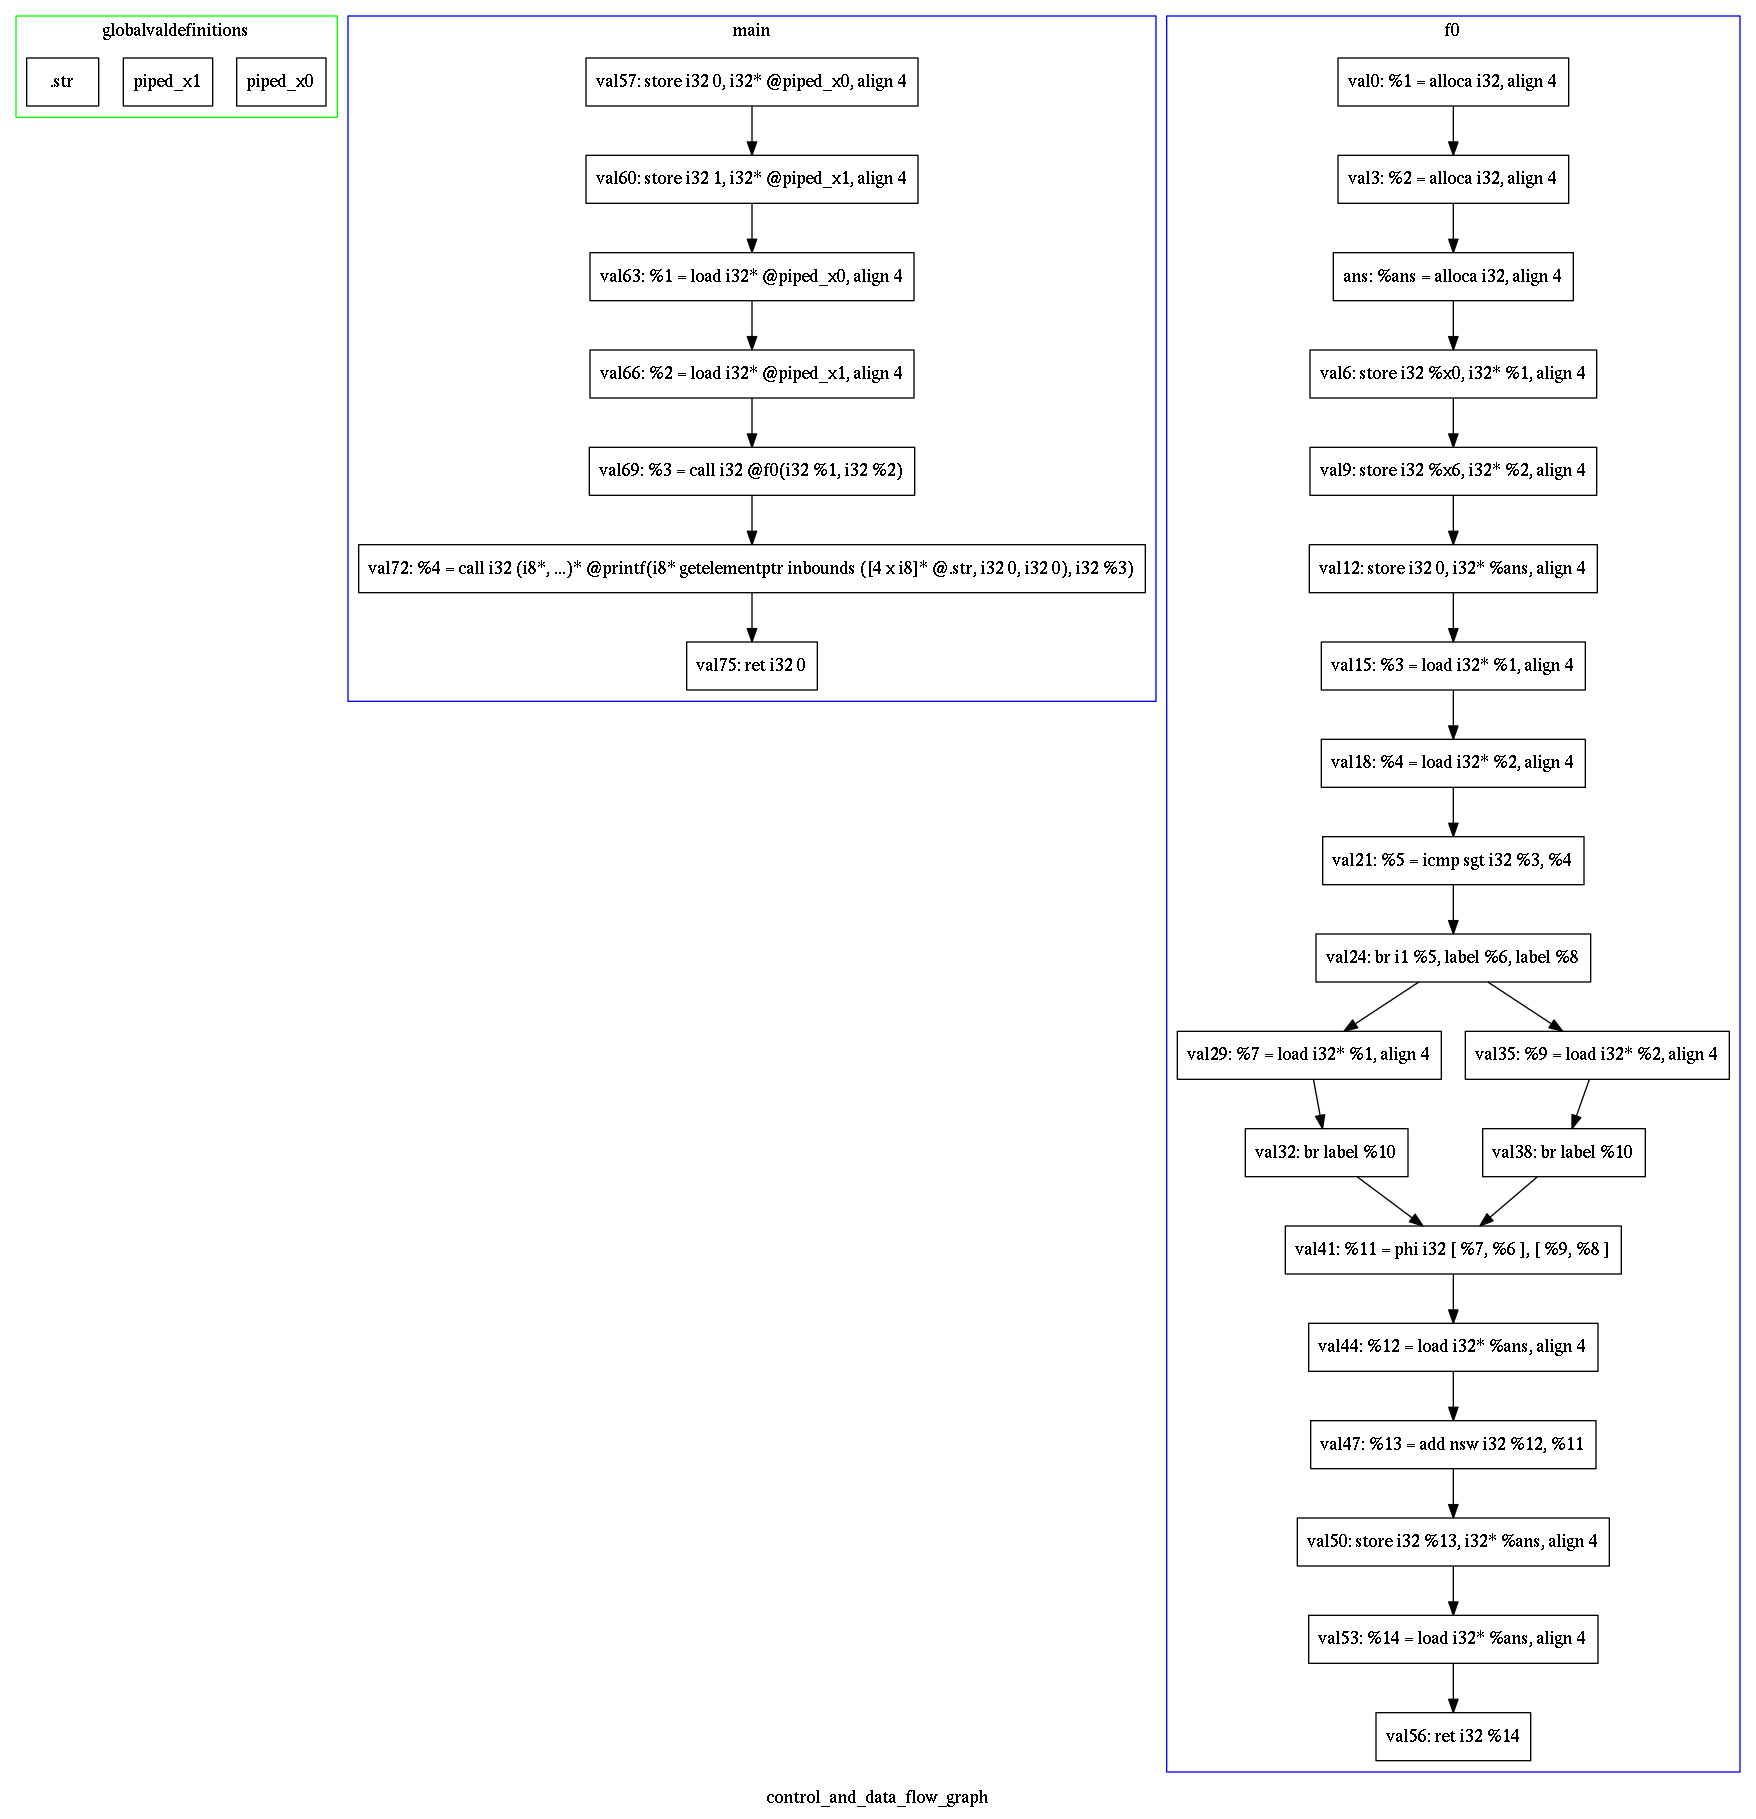
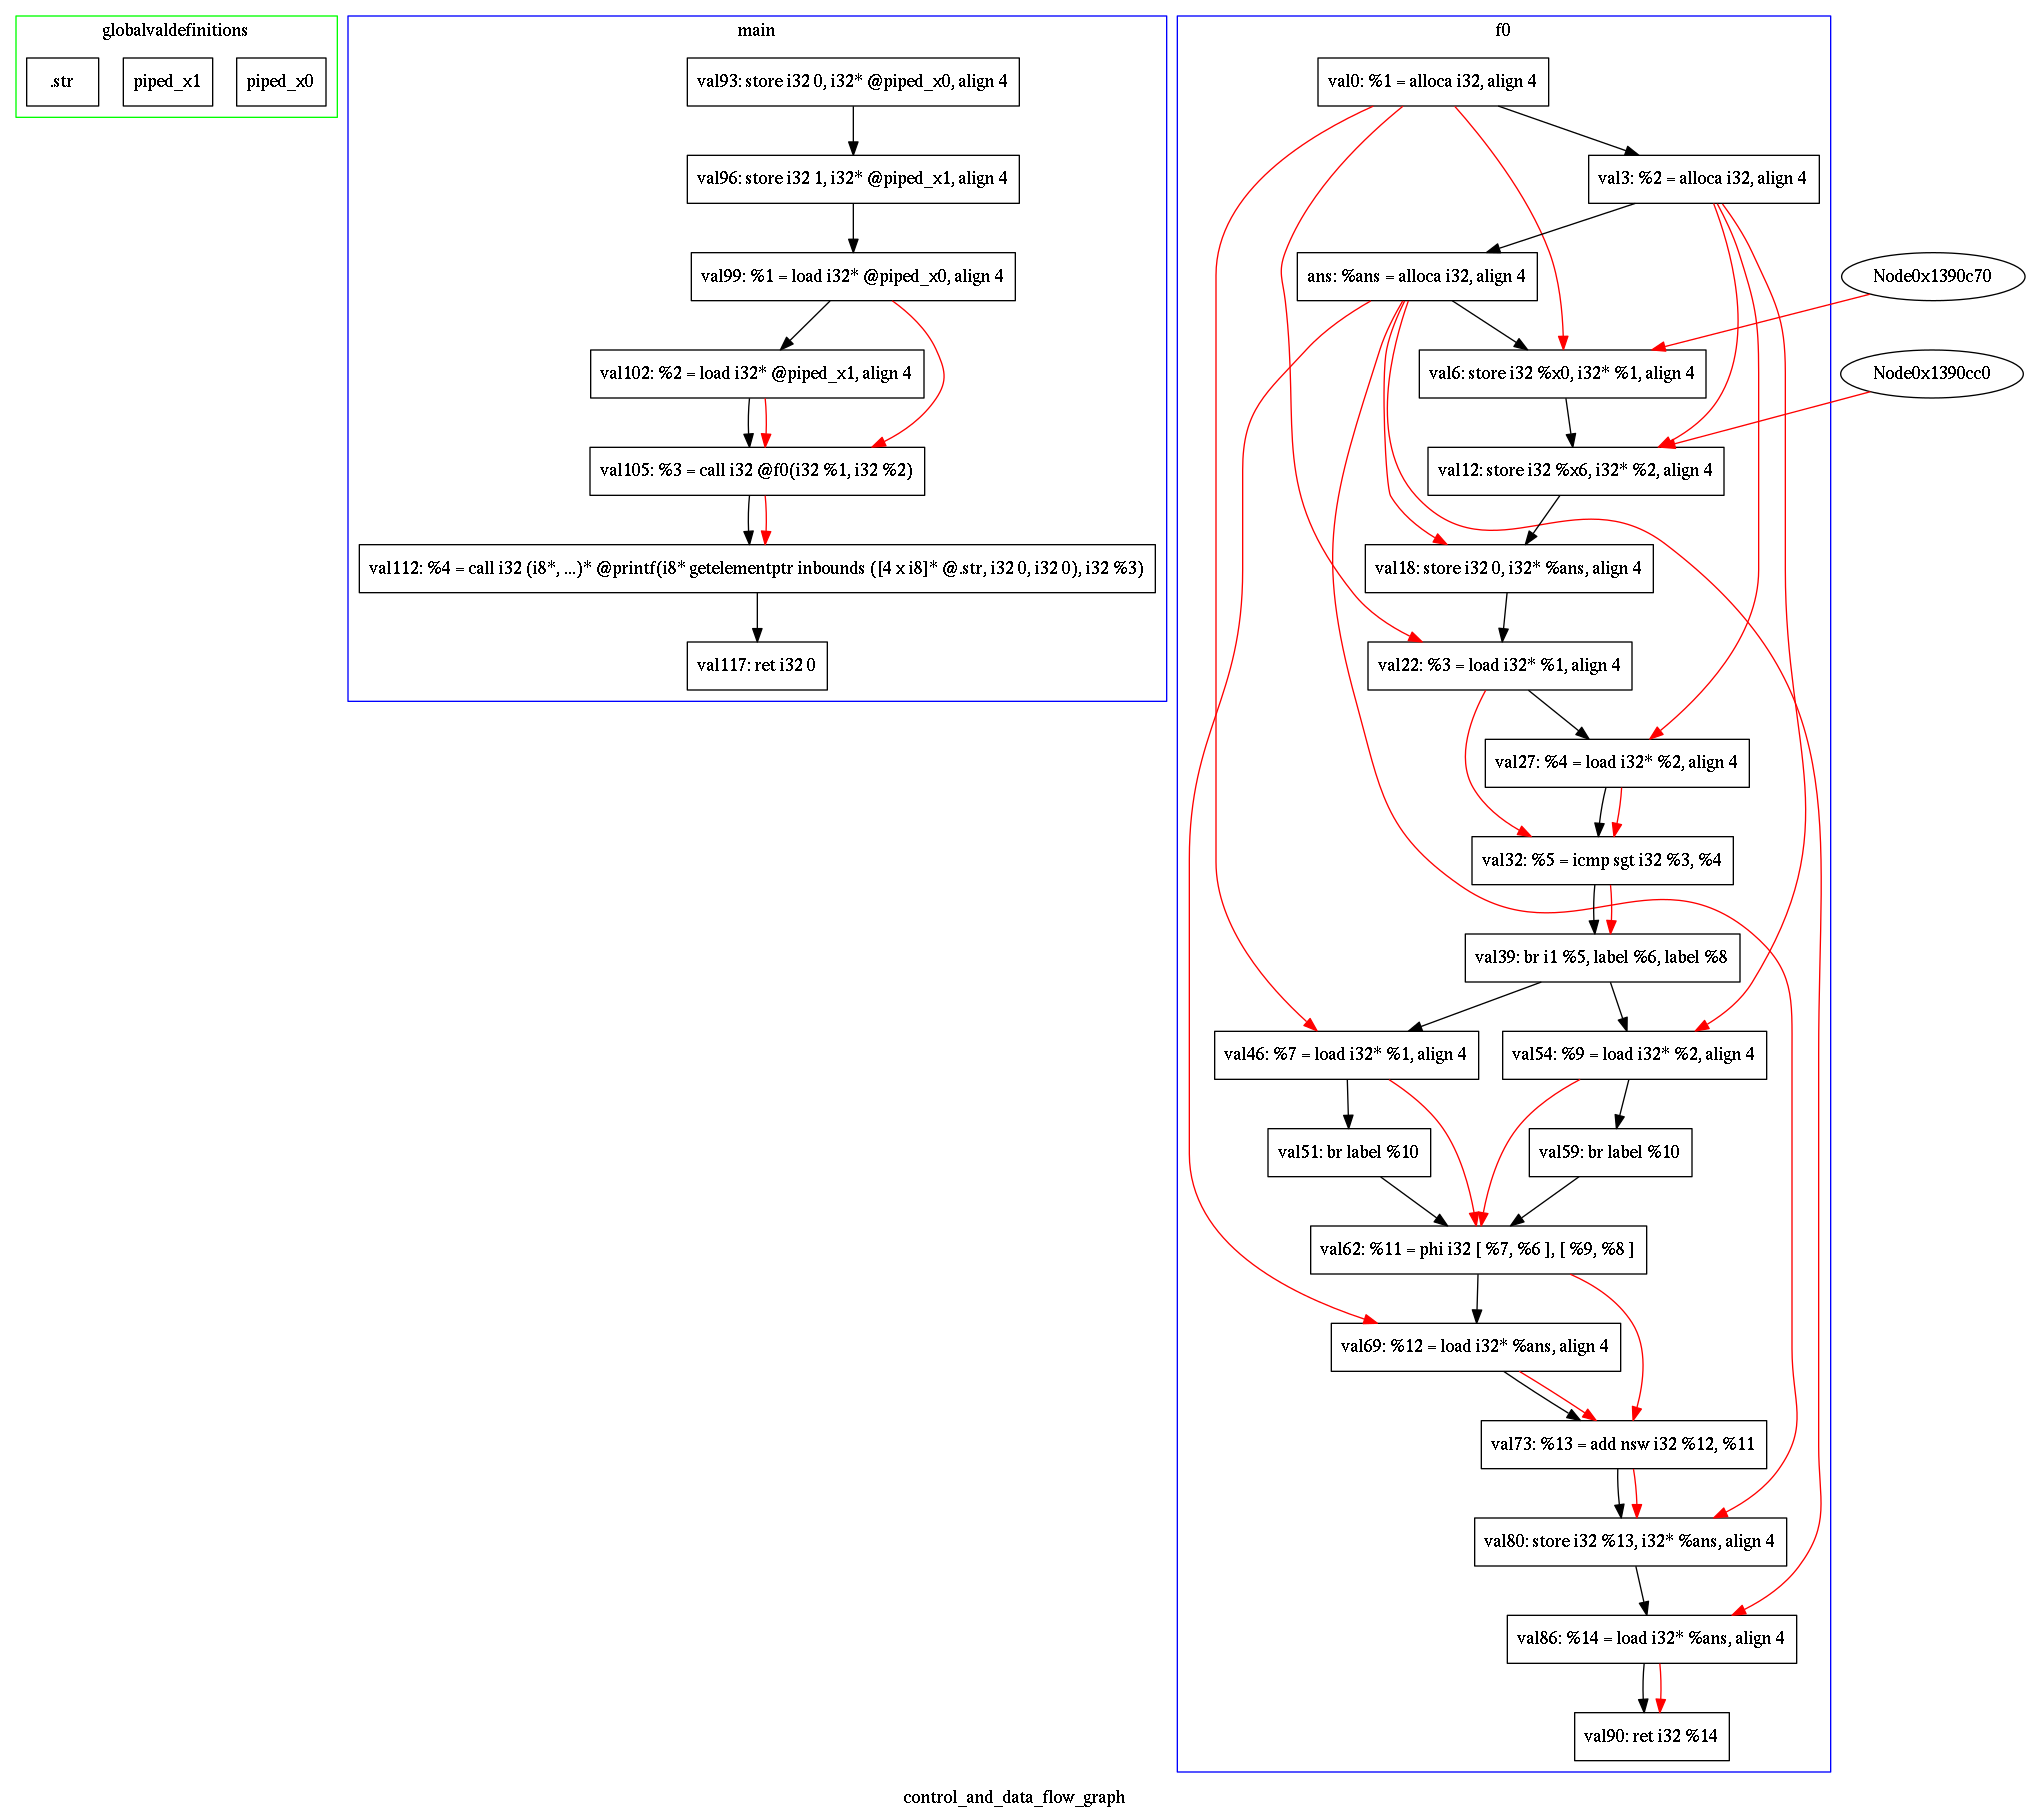
use iteration for data flow is working. must sort out the direction of flow and flow between functions and global variables

diff --git a/dataflow.cc b/dataflow.cc
@@ -37,6 +37,13 @@ bool datautils::DataWorker::runOnModule(llvm::Module &M){/*{{{*/
                 ++previous;
                 func_nodes_ctrl[&*FI].push_back(node(II, datautils::getvaluestaticname(II)));
                 if(previous != IE)func_edges_ctrl[&*FI].push_back(edge(node(II, datautils::getvaluestaticname(II)), node(previous, datautils::getvaluestaticname(previous))));
+                for(llvm::Instruction::op_iterator op = II->op_begin(), ope = II->op_end(); op != ope; ++op)
+                {
+                    if(llvm::dyn_cast<llvm::Instruction>(*op)||llvm::dyn_cast<llvm::Argument>(*op))
+                    {
+                        data_flow_edges.push_back(edge(node(op->get(), datautils::getvaluestaticname(op->get())), node(II, datautils::getvaluestaticname(II))));
+                    }
+                }
             }
 
             llvm::TerminatorInst* TI = BB->getTerminator();
@@ -53,7 +60,7 @@ bool datautils::DataWorker::runOnModule(llvm::Module &M){/*{{{*/
     return false;
 }/*}}}*/
 
-bool datautils::DataWorker::dumpCompleteDiGraph(std::ofstream& Out){
+bool datautils::DataWorker::dumpCompleteDiGraph(std::ofstream& Out){/*{{{*/
     Out << indent << "digraph \"control_and_data_flow\"{\n";
     indent = "\t";
     Out << indent << "subgraph cluster_globals{\n";
@@ -73,28 +80,36 @@ bool datautils::DataWorker::dumpCompleteDiGraph(std::ofstream& Out){
         indent = "\t";
         Out << indent << "}\n\n";
     }
+    datautils::DataWorker::dumpDataflowEdges(Out);
     Out << indent << "label=control_and_data_flow_graph;\n";
     indent = "";
     Out << indent << "}\n";
     return false;
-}
+}/*}}}*/
 
-bool datautils::DataWorker::dumpNodes(std::ofstream& Out, llvm::Function &F){
+bool datautils::DataWorker::dumpNodes(std::ofstream& Out, llvm::Function &F){/*{{{*/
     for(auto node_l: func_nodes_ctrl[&F])
         Out << indent << "\tNode" << node_l.first << "[shape=record, label=\"" << node_l.second << "\"];\n";
     return false;
-}
+}/*}}}*/
 
-bool datautils::DataWorker::dumpControlflowEdges(std::ofstream& Out, llvm::Function &F)
+bool datautils::DataWorker::dumpControlflowEdges(std::ofstream& Out, llvm::Function &F)/*{{{*/
 {
     for(auto edge_l : func_edges_ctrl[&F])
         Out << indent << "\tNode" << edge_l.first.first << " -> Node" << edge_l.second.first << ";\n";
     return false;
-}
+}/*}}}*/
 
-bool datautils::DataWorker::dumpGlobals(std::ofstream& Out)
+bool datautils::DataWorker::dumpGlobals(std::ofstream& Out)/*{{{*/
 {
     for(auto globalval : globals)
         Out << indent << "\tNode" << globalval.first << "[shape=record, label=\"" << globalval.second << "\"];\n";
     return false;
-}
+}/*}}}*/
+
+bool datautils::DataWorker::dumpDataflowEdges(std::ofstream& Out)/*{{{*/
+{
+    for(auto edge_l : data_flow_edges)
+        Out << indent << "\tNode" << edge_l.first.first << " -> Node" << edge_l.second.first << "[color=red];\n";
+    return false;
+}/*}}}*/

diff --git a/dataflow.h b/dataflow.h
@@ -32,7 +32,7 @@ namespace datautils{
         std::map<llvm::Function*, edge_list> func_edges_ctrl;
         std::map<llvm::Function*, node_list> func_nodes_ctrl;
 
-        std::list<edge_list> data_flow_edges;
+        edge_list data_flow_edges;
     };
     static unsigned int num = 0;
     std::string getvaluestaticname(llvm::Value* val)

diff --git a/README.md b/README.md
@@ -7,9 +7,9 @@ Current Status:
 1.  Control flow is good per function. should add?? between function blocks and calling
     statements??.
 2.  Data flow just getting started.
-
-Sample test code.
+It's sample test code.
 ```c
+~~~{.c}
 #include <stdio.h>
 /*{{{*////Function Declarations.
 int f0(int x0 , int x6){
@@ -26,10 +26,10 @@ int main()
     piped_x1 = 1;
     printf("%d\n", f0(piped_x0, piped_x1));
 }
+~~~
 ```c
 
-Output Dot image:
-![dot file][ctrl-data.png]
+Output Dot image
+![dotfile](https://raw.githubusercontent.com/k3ut0i/llvm-dataflow-graphs/master/ctrl-data.png)
 
 
-[ctrl-data.png]: ctrl-data.png
